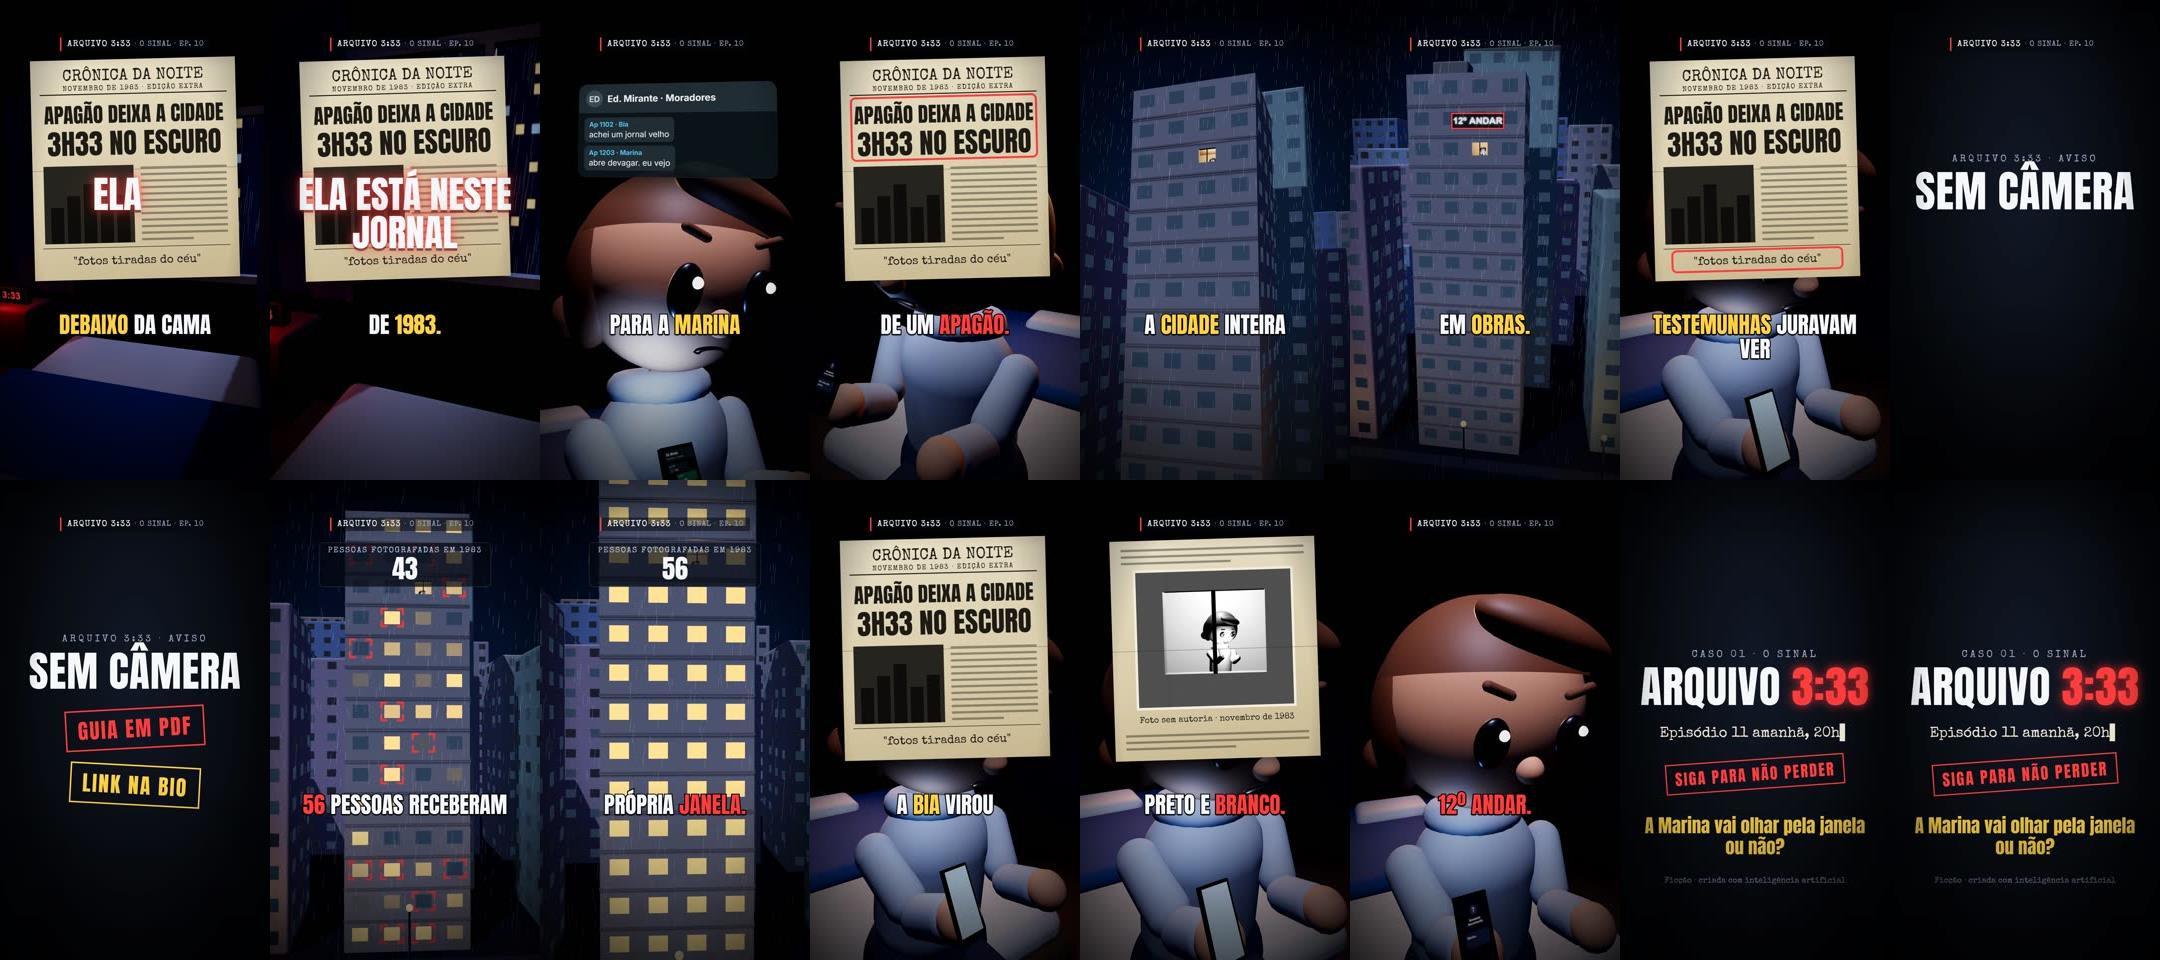
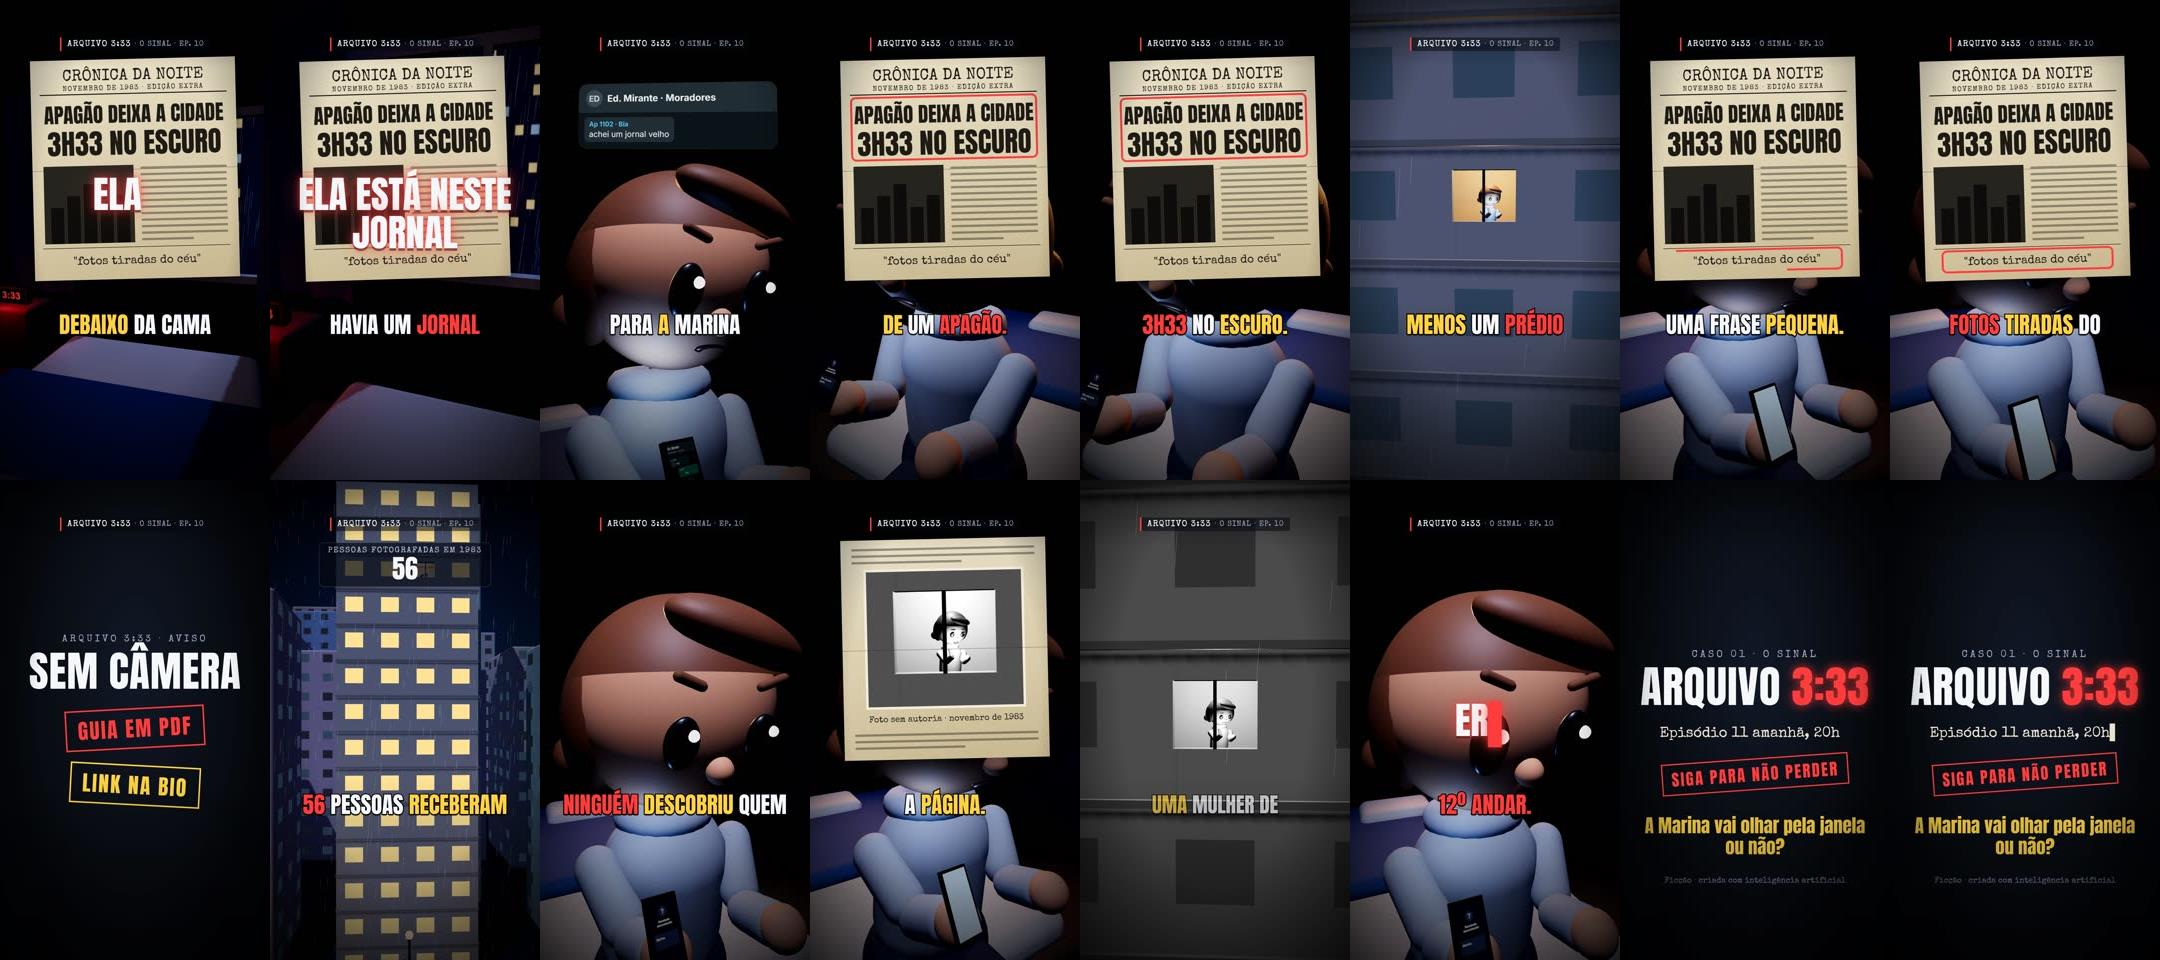
Arquivo 3:33: divulgacao curta (3,3 s) nos eps. 10 a 12, ep. 10 manual no Instagram, regras de 03/11 na skill

diff --git a/arquivo-333/src/caso/Caso.tsx b/arquivo-333/src/caso/Caso.tsx
@@ -406,13 +406,13 @@ const Final: React.FC<{ s: number; episodio: number; chamada?: string }> = ({ s,
 /** Cartão de divulgação (guia em PDF) no meio do episódio: título grande + selos que entram um a um. */
 const Divulgacao: React.FC<{ s: number; titulo: string; linhas: string[] }> = ({ s, titulo, linhas }) => {
   const entra = (em: number) => spring({ frame: Math.round((s - em) * FPS), fps: FPS, config: { damping: 11, stiffness: 150 } });
-  const t0 = entra(0.1);
+  const t0 = entra(0.05);
   return (
     <AbsoluteFill style={{ background: "radial-gradient(ellipse at 50% 40%, #121826 0%, #05070C 70%)", alignItems: "center", justifyContent: "center", flexDirection: "column" }}>
       <div style={{ fontFamily: ELITE, fontSize: 38, color: "#9AA6BF", letterSpacing: 10, marginBottom: 24, opacity: lim(t0 * 2) }}>ARQUIVO 3:33 · AVISO</div>
       <div style={{ fontFamily: ANTON, fontSize: 168, lineHeight: 1, color: COR.texto, letterSpacing: 2, transform: `scale(${0.8 + 0.2 * t0})`, opacity: lim(t0 * 2) }}>{titulo}</div>
       {linhas.map((txt, i) => {
-        const p = entra(0.7 + i * 0.7);
+        const p = entra(0.35 + i * 0.4);
         const cor = i === 0 ? COR.vermelho : COR.amarelo;
         return (
           <div key={i} style={{ marginTop: 64, transform: `scale(${0.6 + 0.4 * p}) rotate(${i % 2 ? 3 : -3}deg)`, opacity: lim(p * 2), border: `6px solid ${cor}`, padding: "12px 44px", fontFamily: ANTON, fontSize: 84, color: cor, letterSpacing: 6 }}>{txt}</div>

diff --git a/.claude/skills/arquivo-333/SKILL.md b/.claude/skills/arquivo-333/SKILL.md
@@ -19,13 +19,23 @@ O Vito (dono) deu **liberdade total**: não peça aprovação de roteiro, cena n
   - **Episódio já gravado:** gere só a pergunta (barato, uns 0,3 de crédito por frase) e use `vozAntes` na cena `final`: `{ arquivo, url, textos, indice, pausa }`. O `preparar-caso` encaixa a pergunta antes da fala da cena, sem regerar a narração aprovada (foi assim nos eps. 8 a 10).
   - **Duração do cartão:** com a pergunta falada, o cartão final dura uns 5 a 6 s (antes, uns 3 s). Mantenha `segura` de no máximo 0,45 s e o episódio abaixo de 58 s.
 
-**Divulgação do guia "Sem Câmera" no meio do vídeo (pedido do Vito, 02/11/2026, por tempo limitado; ele diz quando acabar):** o Vito vende um guia em PDF e quer 3 a 6 s de divulgação no meio dos episódios.
-- **Como é:** cena `avulsa` entre os cortes, a 40%-60% do vídeo, nunca em cima de uma revelação. O narrador (Gideon, gravado à parte, arquivo `narracao/divulgacao-guia.mp3`) diz: "Este vídeo foi feito só com inteligência artificial, sem câmera. Quer aprender? O guia está no link da bio." Na tela, `visual: { tipo: "divulgacao", titulo: "SEM CÂMERA", linhas: ["GUIA EM PDF", "LINK NA BIO"] }`. Sem promessa de dinheiro.
+**Divulgação do guia "Sem Câmera" no meio do vídeo (pedido do Vito, 02/11/2026; desde 03/11 ela é CURTA e OBRIGATÓRIA em todo episódio):** o Vito vende um guia em PDF (https://semcamera.vercel.app/?de=arquivo). A divulgação tem de ter **menos de 4 s** e não pode pausar a história. Os eps. 8 e 9 saíram com a versão longa (7 s) e não se refazem.
+- **Como é:** cena `avulsa` entre os cortes, a 40%-60% do vídeo, nunca em cima de uma revelação. O narrador (Gideon, gravado à parte, arquivo `narracao/divulgacao-curta.mp3`, 0,3 crédito) diz: "Feito sem câmera. Guia no link da bio." (cena de 3,3 s). A versão longa de 02/11 (`divulgacao-guia.mp3`, 7 s) não se usa mais. Na tela, `visual: { tipo: "divulgacao", titulo: "SEM CÂMERA", linhas: ["GUIA EM PDF", "LINK NA BIO"] }`. Sem promessa de dinheiro.
 - **No JSON:** a cena leva `"avulsa": { "arquivo", "url" }`, `"semLegenda": true`, `"entrada": "preto"`, `"sons": []`, e a `fala` é o texto da frase. O `preparar-caso` tira essa cena do corte da narração principal e mixa a voz dela à parte. O `nuvem.mjs` baixa o arquivo pela `url` se faltar.
 - **Legendas:** a legenda do Instagram/TikTok e a descrição do YouTube ganham "Guia para fazer vídeos assim: link na bio." antes de "Ficção criada com inteligência artificial.".
-- **Custo e tempo:** a frase gravada custa 0,69 crédito (serve para todos os episódios). A cena dura uns 7 s, então o episódio passa de 58 s (ep. 8: 63 s). Vale enquanto o Vito pedir.
+- **Custo e tempo:** a frase curta serve para todos os episódios (já gravada). A cena dura uns 3,3 s; o episódio todo fica de **48 a 58 s** (regra de 03/11: o ep. 8 com 63 s perdeu views). Vale enquanto o Vito pedir.
 - **Conferir:** olhe a folha de revisão (o título não pode encostar nas bordas: 168 px) e, no Pages, o tamanho do mp4 contra o local.
 - **Se o envio do render falhar no PC:** o `fetch` do Node às vezes não conecta em `uploads.github.com`. O `nuvem.mjs` agora tenta o `curl`; se ainda assim falhar, rode `SO_ENVIO=1 TODOS=1 FORCAR=epNN node ferramentas/nuvem.mjs` (só refaz o envio e o registro, sem renderizar de novo). Cuidado: o envio apaga o arquivo antigo do release antes de subir o novo; confira que `o-sinal-epNN-upload.mp4` está lá no fim.
+
+**Decisões do Vito de 03/11/2026 (valem para os próximos episódios):**
+1. **Descrição do canal e de cada vídeo no YouTube:** o canal Arquivo 3:33 ganha na descrição "Guia para fazer vídeos assim, sem câmera: https://semcamera.vercel.app/?de=arquivo" (mantendo o resto). Em todo vídeo novo, a descrição também leva a frase e o link. Confira na tela que o canal é o Arquivo 3:33 antes de salvar: o Chrome às vezes volta no perfil do Hoje Sumiu.
+2. **Abertura como a do ep. 2 (10 mil views):** o 1º quadro tem imagem estranha, um número em destaque e uma palavra em amarelo ou vermelho, antes de qualquer explicação.
+3. **Sempre a pergunta final** para o público, falada e escrita.
+4. **Duração de 48 a 58 s.**
+5. **Teste de legenda (só na próxima série, um episódio de cada vez):** 2 palavras por vez, a palavra de medo em vermelho e maior. Compare com o formato atual e registre em `publicacao/numeros.md`.
+6. **Instagram pela API (n8n) x à mão:** o ep. 8 fez 559 views em 1 dia no Instagram, contra 1,4 a 1,6 mil dos eps. 4 a 7 (no YouTube, 1 mil, igual); o ep. 9 começou com 3 views. Pode ser a divulgação, os 63 s ou a publicação pelo n8n. Teste: o ep. 10 sai à mão, pelo celular do Vito (`"publicar": { "instagram": "manual" }` no JSON tira o episódio do `agenda.json` e o n8n não publica). Compare as views do ep. 10 com as do ep. 9 e registre.
+7. **Ep. 1 no Instagram** não está fixado (a bio diz que está): só dá pelo celular; avise o Vito.
+8. **A próxima história (Caso 02) ainda não foi decidida:** não comece sem o Vito.
 
 ## Onde fica cada coisa
 O código está no repositório `vito0067/origem-digital-posts`, pasta `arquivo-333/` (no PC: `Documents\Origem Digital\4-midia\posts-automaticos\arquivo-333`).
